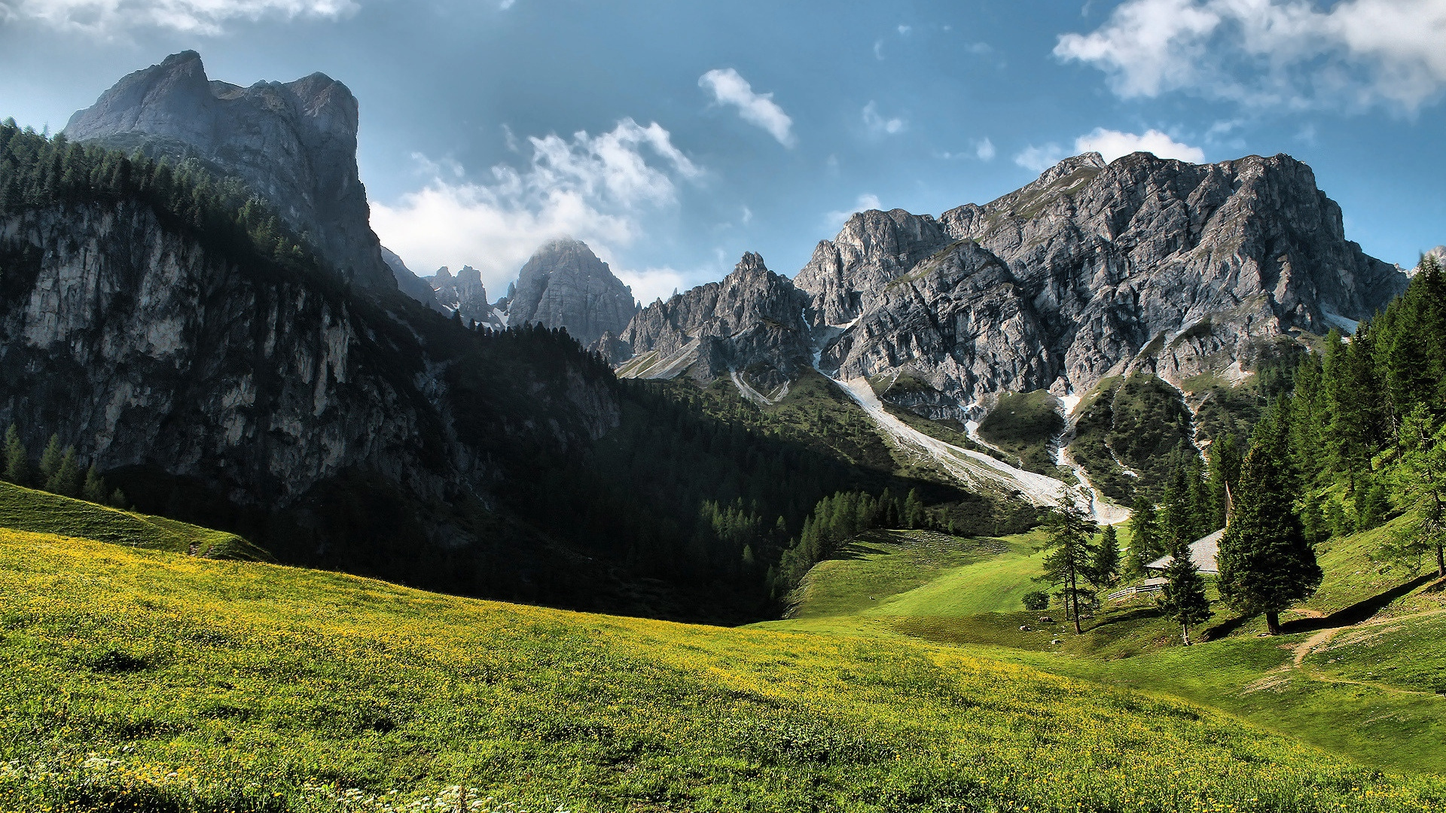
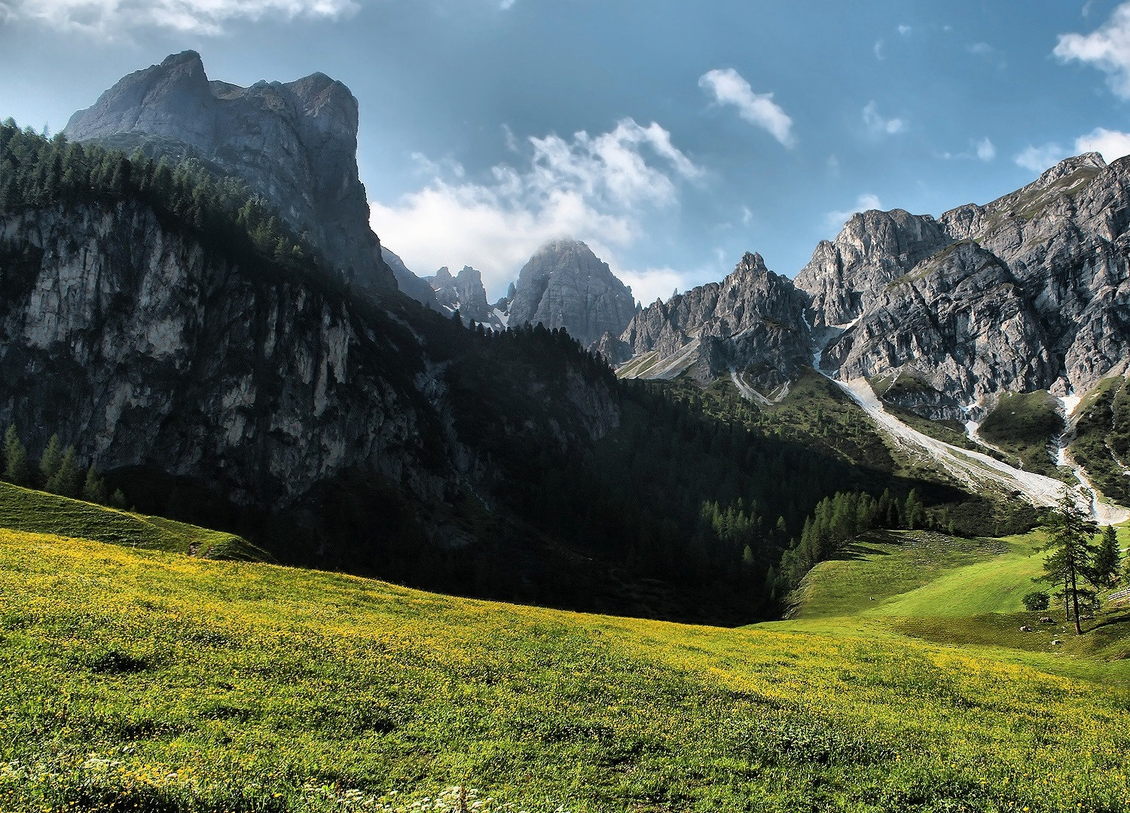
Images rezised

diff --git a/main.py b/main.py
@@ -1,6 +1,10 @@
-import numpy
+import numpy as np
 import cv2
 from matplotlib import pyplot
+
+def imageAdeition(img1, img2):
+    img3 = cv2.add(img1,img2)
+    return img3
 
 bgrKids = cv2.imread('kids.jpg', -1) # Read image [0], [1] flag -1 is used to load it unchanged. Loaded in BGR.
 bgrAnimal = cv2.imread('animal.jpg', -1)
@@ -12,18 +16,19 @@ bgrReef = cv2.imread('reef.jpg', -1)
 
 bgrImage = bgrPortrait
 
-b,g,r = cv2.split(bgrImage) # Split bgr image
-rgbImage = cv2.merge([r,g,b]) # Merge using rgb order
+#b,g,r = cv2.split(bgrImage) # Split bgr image
+#rgbImage = cv2.merge([r,g,b]) # Merge using rgb order
 
+res = imageAdeition(bgrAnimal,bgrCity)
 
 cv2.namedWindow('image', cv2.WINDOW_NORMAL) # Set new window [0], with flags [1]
-cv2.imshow('image', bgrImage) # Show [1] image in a [0] window
+cv2.imshow('image', res) # Show [1] image in a [0] window
 cv2.waitKey(0) # Wait [0] miliseconds for a keyboard event for the program to continue
 cv2.destroyAllWindows() # Destroy created windows
 
-cv2.imwrite('result.jpg', bgrImage) # Save [1] image in the working directory with specified name [0]
+cv2.imwrite('result.jpg', res) # Save [1] image in the working directory with specified name [0]
 
-pyplot.imshow(rgbImage, cmap='gray', interpolation='bicubic') # Load [0] image ... Loaded in RGB.
-pyplot.show() # Display figure
+#pyplot.imshow(rgbImage, cmap='gray', interpolation='bicubic') # Load [0] image ... Loaded in RGB.
+#pyplot.show() # Display figure
 
 # cv2addition = cv2.add(bgrReef, bgrCity) # Saturated operation
